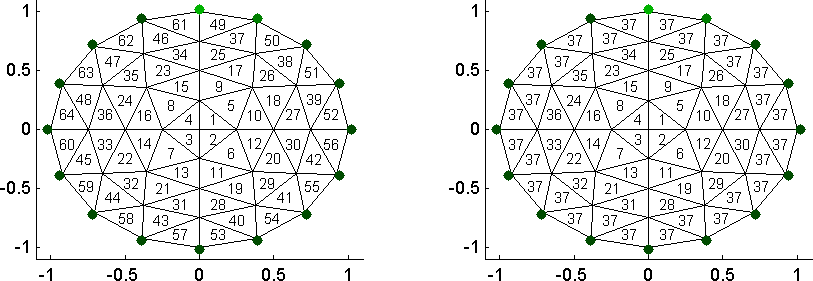
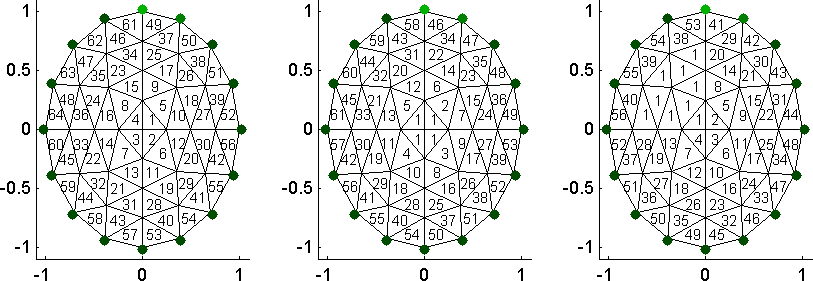
better examples
git-svn-id: svn://svn.code.sf.net/p/eidors3d/code/trunk@1193 82006732-fb7e-4a22-9f28-86a212cce563

diff --git a/htdocs/tutorial/dual_model/dual_model02.m b/htdocs/tutorial/dual_model/dual_model02.m
@@ -1,4 +1,4 @@
-% Simulate data $Id: dual_model02.m,v 1.3 2008-03-16 10:35:23 aadler Exp $
+% Simulate data $Id: dual_model02.m,v 1.4 2008-03-16 11:06:26 aadler Exp $
 
 % create base model
 mdl_base=mk_common_model('a2c0',16);
@@ -10,21 +10,25 @@ nodes= mdl_base.fwd_model.nodes;
 e= size(elems,1);
 
 
-for model = 1:2
+for model = 1:3
    if model==1
 % Model 1: coarse==fine. each elem has a parameter
       params= 1:e; 
-   else
-% Model 2: outer two layers have only one parameter, 
+   elseif model==2
+% Model 2: coarse model, inner circle has one parameter
+      params= [1,1,1,1, 2:e-3];
+   elseif model==3
+% Model 3: coarse model, top left slice has one parameter
       params= 1:e;
-      params(params>36)= 37;
+      params([4,8,15:16,23:24,34:36])= 0;
+      [jnk1,jnk2,params]= unique(params);
    end
 
 % Create inverse_model
    imdl(model)= mdl_base;
    imdl(model).fwd_model.coarse2fine = sparse(1:e,params,1,e,max(params));
 
-   subplot(2,2, model)
+   subplot(2,3, model)
    show_fem(imdl(model).fwd_model);
 
 % Show parameter numbers

diff --git a/htdocs/tutorial/dual_model/dual_model03.m b/htdocs/tutorial/dual_model/dual_model03.m
@@ -1,13 +1,9 @@
-% Simulate data $Id: dual_model03.m,v 1.1 2008-03-16 01:33:12 aadler Exp $
+% Simulate data $Id: dual_model03.m,v 1.2 2008-03-16 11:06:27 aadler Exp $
 
-img1= inv_solve(imdl(1), vh, vi);
-subplot(221)
-show_fem(img1);
-
-img2= inv_solve(imdl(2), vh, vi);
-c2f= img2.fwd_model.coarse2fine;
-img2.elem_data= c2f * img2.elem_data;
-subplot(222)
-show_fem(img2);
+for model= 1:3
+   img= inv_solve(imdl(model), vh, vi);
+   subplot(2,3,model)
+   show_fem(img);
+end
 
 print -r125 -dpng dual_model03a.png;

diff --git a/htdocs/tutorial/dual_model/dual_model01.m b/htdocs/tutorial/dual_model/dual_model01.m
@@ -1,8 +1,8 @@
-% Simulate data $Id: dual_model01.m,v 1.1 2008-03-16 00:12:52 aadler Exp $
+% Simulate data $Id: dual_model01.m,v 1.2 2008-03-16 11:06:26 aadler Exp $
 imdl= mk_common_model('c2c2',16);
 img=calc_jacobian_bkgnd(imdl);
 vh=fwd_solve(img);
-idx=[535,490,446,405,365,328,292,259,227,198,170,145,121];
+idx=[365,328,292,259,227,198,170,145,121];
 img.elem_data([idx,idx+1,101,81])=1.1;
 vi=fwd_solve(img);
 
